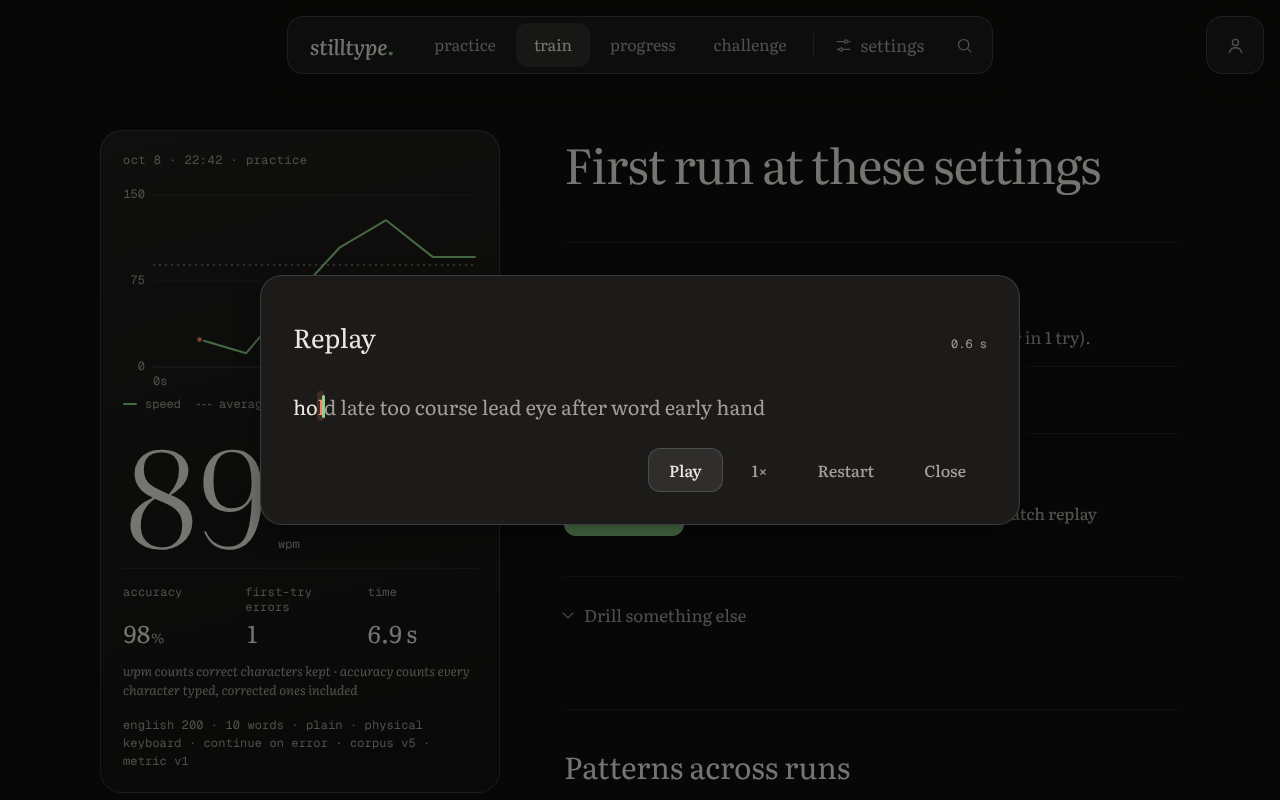
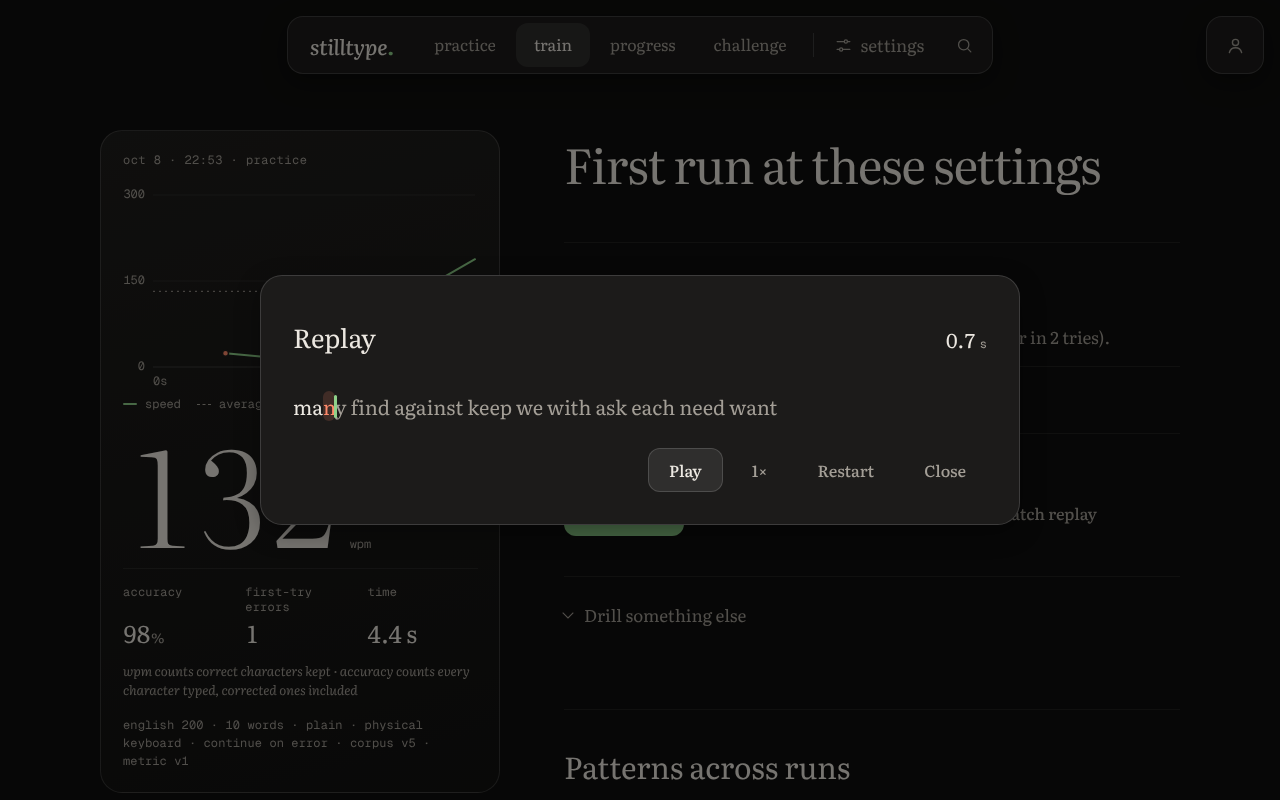
Address replay review: Literata clock, reduced motion, scored span, narrow controls
The replay clock's seconds now render in Literata with a small mono unit.
Under reduced motion the replay opens still on the finished frame; Play
stays an explicit choice. The replay span uses the attempt's scored
start and end, so a timed run's idle tail plays out. Replay controls wrap
at phone width. Spec screenshots go to docs only with SCREENSHOTS set.

Claude-Session: https://claude.ai/code/session_01SaBNo9RHRaTR8cCUjK1iLD

diff --git a/e2e/watch-replay.spec.js b/e2e/watch-replay.spec.js
@@ -45,8 +45,40 @@ test('watch replay plays the run back and ends on the scored letters', async ({ 
   await expect(page.locator('body')).toHaveAttribute('data-view', 'results');
 });
 
+test('under reduced motion the replay opens still, on the finished frame', async ({ page }) => {
+  await page.emulateMedia({ reducedMotion: 'reduce' });
+  const { text } = await finishWithCorrectedMiss(page);
+  await page.locator('#watch-replay').click();
+  const dialog = page.locator('#replay-dialog');
+  await expect(dialog).toHaveAttribute('data-state', 'done');
+  await expect(page.locator('#replay-toggle')).toHaveText('Play');
+  await expect(page.locator('#replay-text .char.correct')).toHaveCount(text.length);
+  // Playback is still there when asked for.
+  await page.locator('#replay-toggle').click();
+  await expect(dialog).toHaveAttribute('data-state', 'playing');
+});
+
+test('replay controls wrap inside the dialog at phone width', async ({ page }) => {
+  await page.setViewportSize({ width: 320, height: 640 });
+  await finishWithCorrectedMiss(page);
+  await page.locator('#watch-replay').click();
+  const dialog = page.locator('#replay-dialog');
+  await expect(dialog).toBeVisible();
+  const box = await dialog.boundingBox();
+  for (const id of ['replay-toggle', 'replay-speed', 'replay-restart', 'replay-close']) {
+    const button = await page.locator(`#${id}`).boundingBox();
+    expect(button.x).toBeGreaterThanOrEqual(box.x);
+    expect(button.x + button.width).toBeLessThanOrEqual(box.x + box.width);
+  }
+  expect(await page.evaluate(() => document.documentElement.scrollWidth)).toBeLessThanOrEqual(320);
+});
+
+// Committed docs images are rewritten only on request (SCREENSHOTS=1); a normal run keeps its
+// capture in the test output folder.
+const shotPath = (testInfo, name) => (process.env.SCREENSHOTS ? `docs/screenshots/watch-replay/${name}` : testInfo.outputPath(name));
+
 for (const theme of ['dark', 'light']) {
-  test(`screenshot: replay mid-playback (${theme})`, async ({ page }) => {
+  test(`screenshot: replay mid-playback (${theme})`, async ({ page }, testInfo) => {
     await page.setViewportSize({ width: 1280, height: 800 });
     await page.emulateMedia({ colorScheme: theme });
     await finishWithCorrectedMiss(page);
@@ -56,6 +88,6 @@ for (const theme of ['dark', 'light']) {
     await expect(page.locator('#replay-text .char.wrong')).toHaveCount(1);
     await page.locator('#replay-toggle').click();
     await expect(dialog).toHaveAttribute('data-state', 'paused');
-    await page.screenshot({ path: `docs/screenshots/watch-replay/replay-${theme}.png` });
+    await page.screenshot({ path: shotPath(testInfo, `replay-${theme}.png`) });
   });
 }

diff --git a/src/replay-view.js b/src/replay-view.js
@@ -3,6 +3,8 @@
 // matches the scored run exactly. Letter states are instant and the caret jumps (no spring).
 import { replaySpan, stateAt } from './typing.js';
 
+const reducedMotion = matchMedia('(prefers-reduced-motion: reduce)');
+
 export function createReplayView(dialog) {
   const display = dialog.querySelector('#replay-text');
   const clock = dialog.querySelector('#replay-clock');
@@ -40,7 +42,7 @@ export function createReplayView(dialog) {
       const name = `char${letter ? ` ${letter}` : ''}${index === state.caret ? ' is-caret' : ''}`;
       if (drawn[index] !== name) node.className = drawn[index] = name;
     });
-    clock.textContent = `${(position / 1000).toFixed(1)} s`;
+    clock.textContent = (position / 1000).toFixed(1);
     toggle.textContent = playing ? 'Pause' : 'Play';
     dialog.dataset.state = playing ? 'playing' : position >= length() ? 'done' : 'paused';
   }
@@ -86,7 +88,13 @@ export function createReplayView(dialog) {
       position = 0;
       build();
       dialog.showModal();
-      play();
+      // Reduced motion: open on the finished frame, still; Play remains an explicit choice.
+      if (reducedMotion.matches) {
+        position = length();
+        pause();
+      } else {
+        play();
+      }
     },
   };
 }

diff --git a/src/styles.css b/src/styles.css
@@ -1793,8 +1793,11 @@ body[data-focus-mode="true"][data-view="practice"] .exit-focus { display: inline
 
 /* Watch replay: the passage at reading size, instant letter states, a caret that jumps. */
 #replay-dialog { width: min(760px, calc(100% - 32px)); }
+#replay-dialog .dialog-actions { flex-wrap: wrap; }
 .replay-head { display: flex; justify-content: space-between; align-items: baseline; gap: var(--space-4); }
-.replay-clock { font-family: var(--font-mono); font-size: var(--text-mono); color: var(--muted); font-variant-numeric: tabular-nums; }
+/* Number and unit share one baseline: the seconds in Literata, the unit a small mono label. */
+.replay-clock { display: flex; align-items: baseline; gap: var(--space-1); color: var(--muted); font: var(--text-mono)/1.2 var(--font-mono); }
+.replay-clock-value { color: var(--text); font: var(--text-lead)/1 var(--font-serif); font-variant-numeric: tabular-nums; }
 .replay-text {
   color: var(--muted);
   font-family: var(--font-serif);

diff --git a/src/typing.js b/src/typing.js
@@ -203,9 +203,13 @@ export function stateAt(attempt, t = Infinity) {
   return { typed: replay.typed, letters, caret: replay.typed.length, mistakes: replay.mistakes, done: events.length === (attempt.events || []).length };
 }
 
+// The scored bounds (startedAt/endedAt) widened to cover every event, so a timed run's idle tail
+// plays out and the replay clock ends on the elapsed time the result used.
 export function replaySpan(attempt) {
   const offsets = (attempt.events || []).map((event) => event.offsetMs).filter(Number.isFinite);
-  return offsets.length ? { start: Math.min(...offsets), end: Math.max(...offsets) } : { start: 0, end: 0 };
+  if (!offsets.length) return { start: 0, end: 0 };
+  const bound = (value) => (Number.isFinite(value) ? [value] : []);
+  return { start: Math.min(...offsets, ...bound(attempt.startedAt)), end: Math.max(...offsets, ...bound(attempt.endedAt)) };
 }
 
 export function completeAttempt(attempt, { endedAt, status = 'complete' } = {}) {

diff --git a/tests/typing.test.js b/tests/typing.test.js
@@ -135,4 +135,8 @@ test('stateAt replays letters as they were and ends on the scored result', () =>
   assert.equal(end.letters.filter((s) => s === 'wrong').length, [...completed.typed].filter((c, i) => c !== completed.text[i]).length);
   assert.equal(end.done, true);
   assert.deepEqual(replaySpan(completed), { start: 0, end: 800 });
+  // A timed run that idles before the timer ends replays to the scored end, not the last key.
+  const timed = completeAttempt({ ...attempt, startedAt: 0 }, { endedAt: 15000 });
+  assert.deepEqual(replaySpan(timed), { start: 0, end: timed.endedAt });
+  assert.equal(replaySpan(timed).end - replaySpan(timed).start, timed.summary.elapsedMs);
 });

diff --git a/index.html b/index.html
@@ -537,7 +537,7 @@
     <div class="dialog-content">
       <header class="replay-head">
         <h2 id="replay-title">Replay</h2>
-        <span id="replay-clock" class="replay-clock">0.0 s</span>
+        <span class="replay-clock"><span id="replay-clock" class="replay-clock-value">0.0</span><span class="replay-clock-unit">s</span></span>
       </header>
       <div id="replay-text" class="replay-text" aria-hidden="true"></div>
       <div class="dialog-actions">
